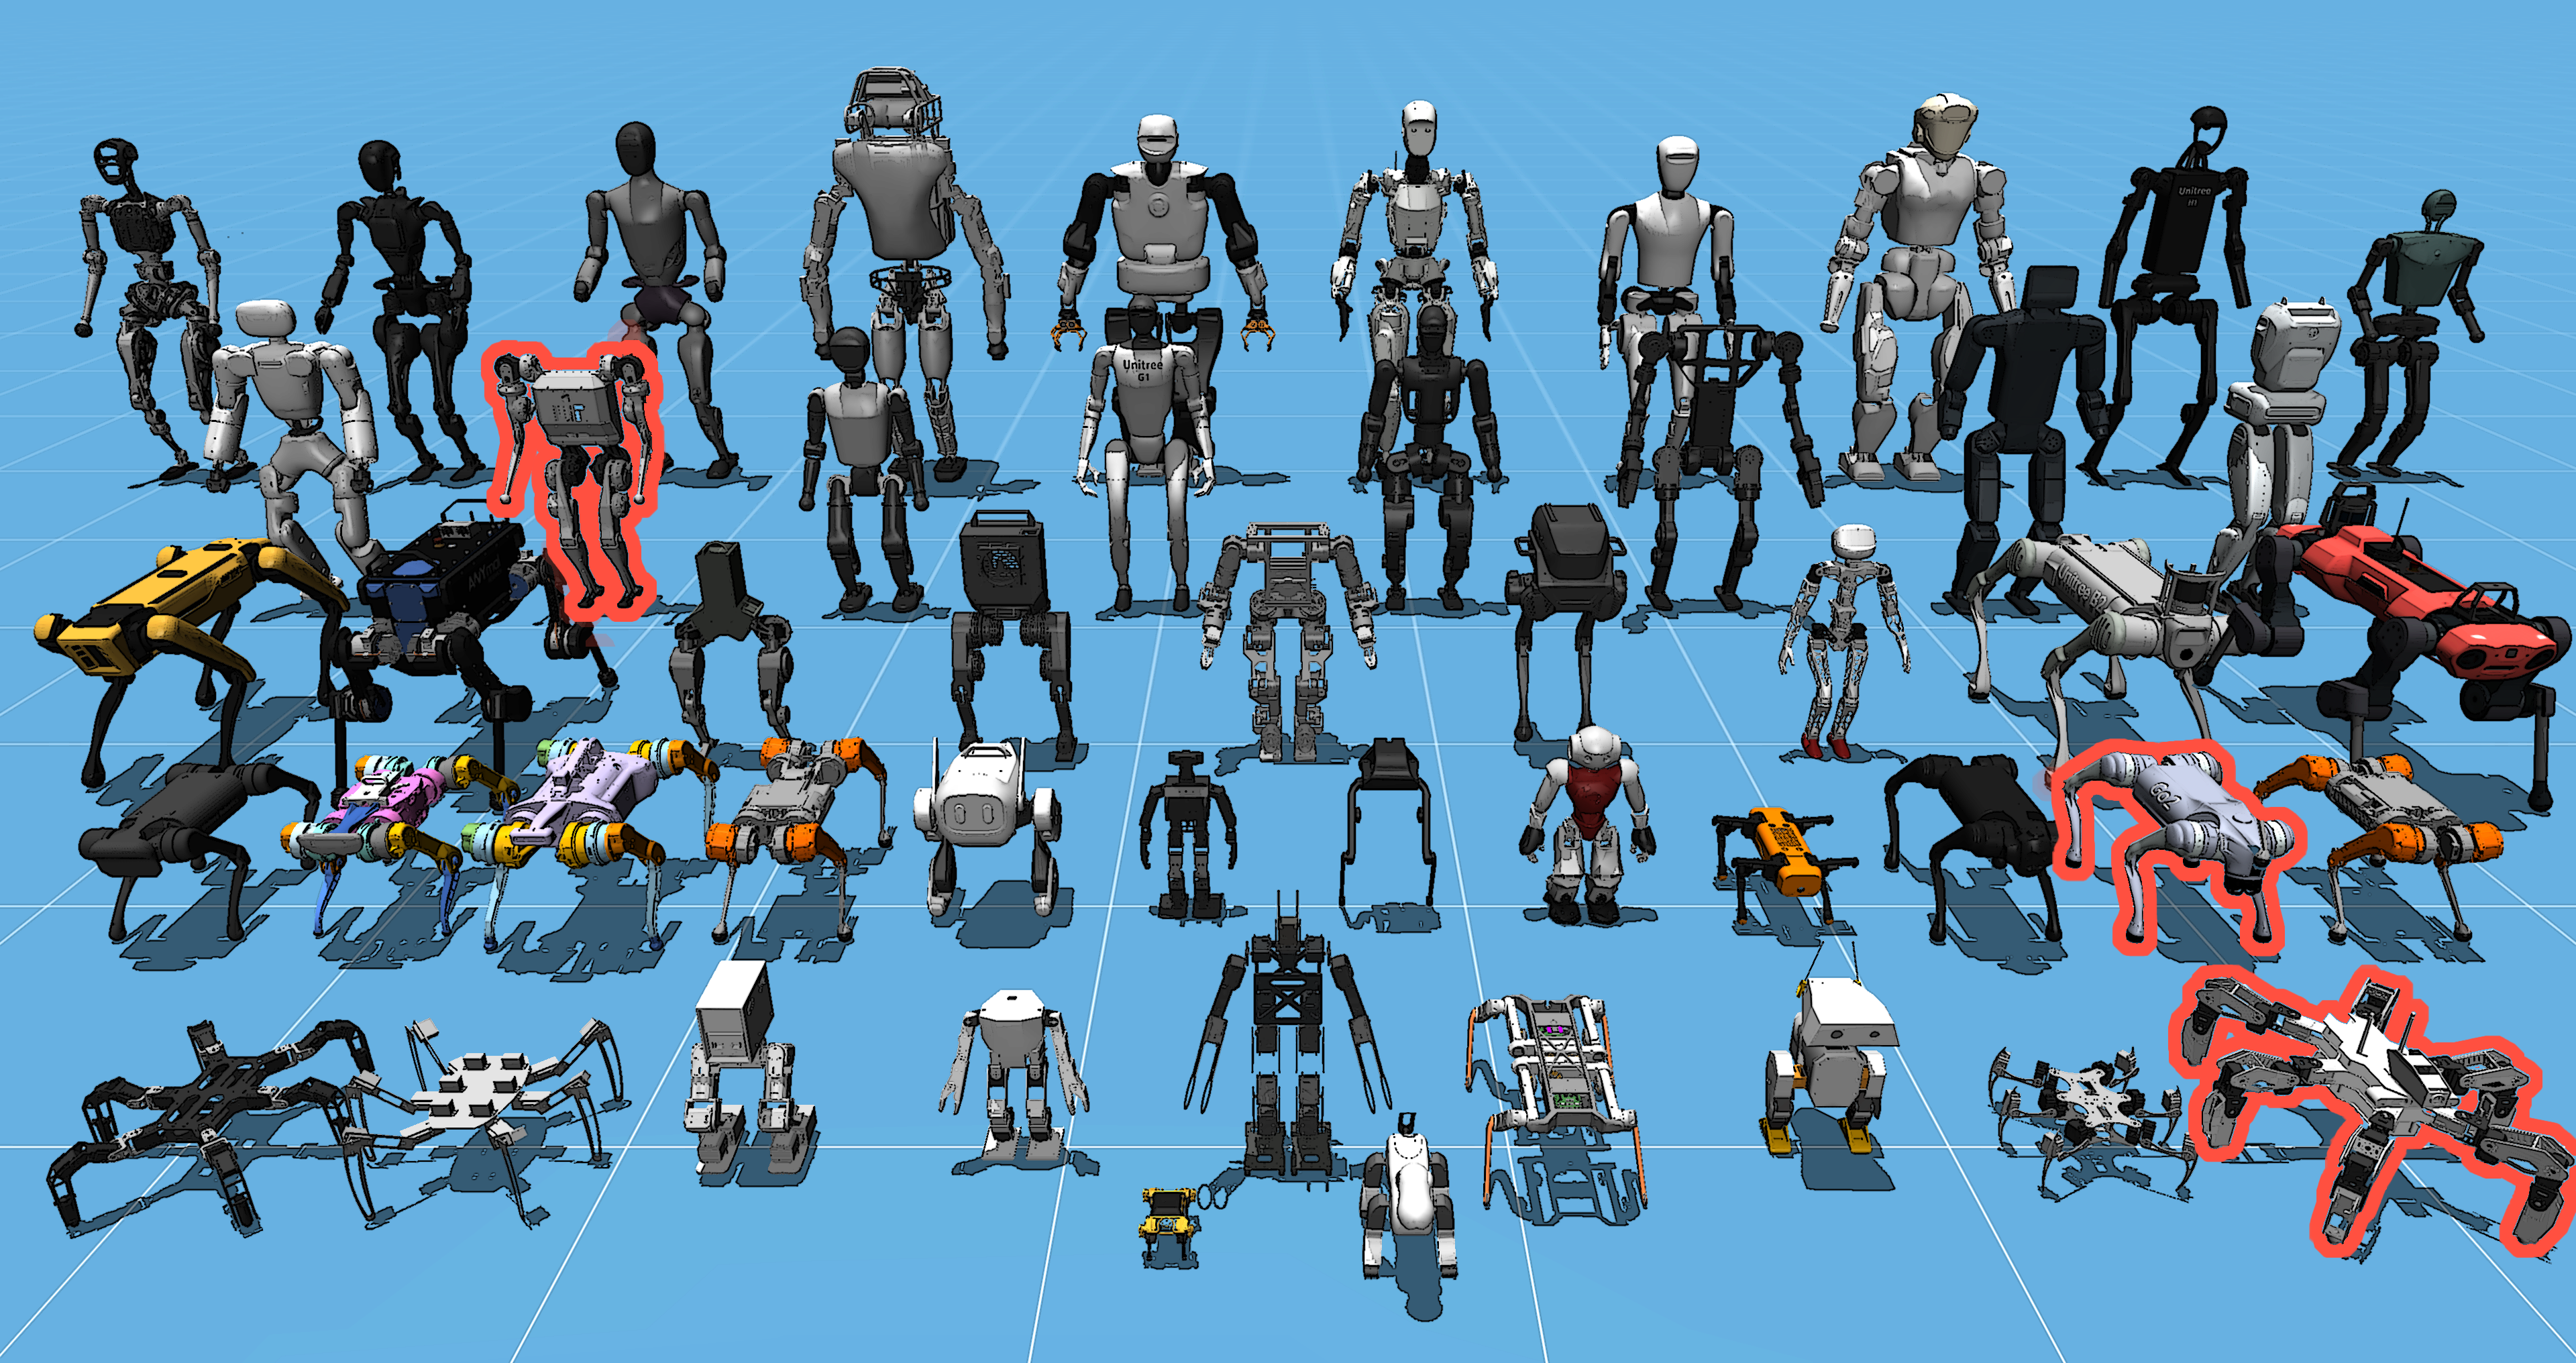
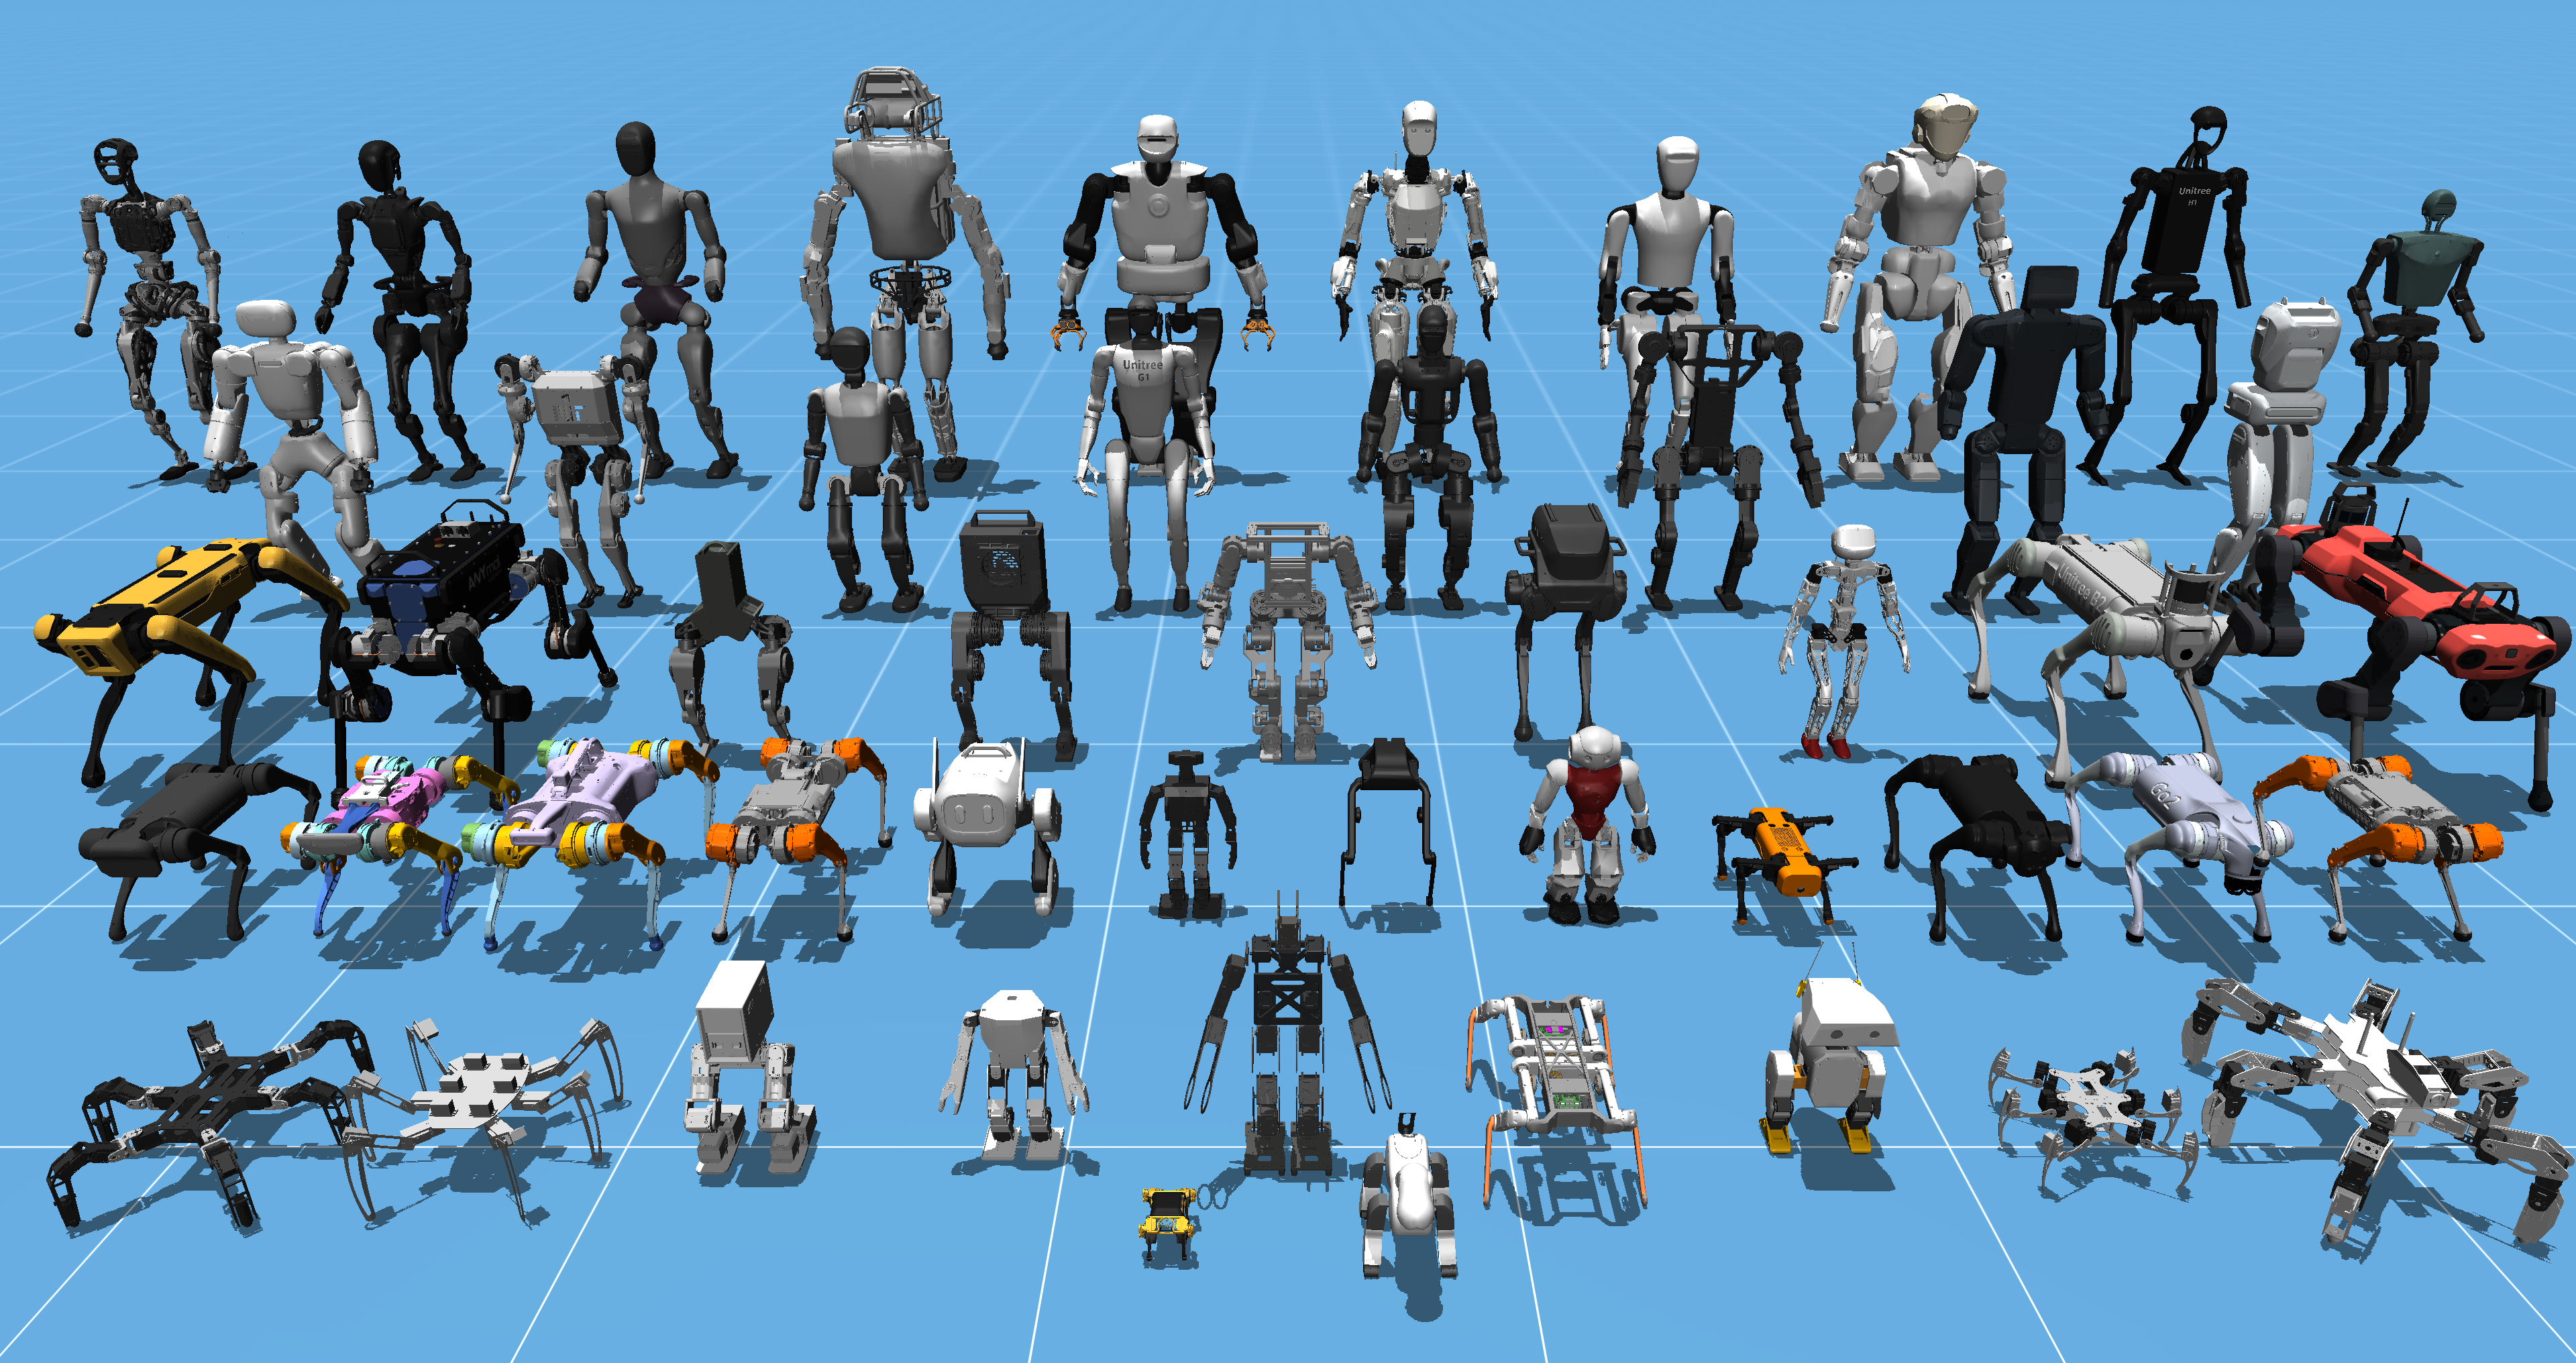
Sync website with revised paper + extend interactive demo
- Title and citation: "Robot Co-Design" -> "Robot Design"
- Refresh all section copy + figures: hero.png, main_robots.png, e1/e2_e4 ranking plots, rl_vs_frozen_combined, design_analysis_counterfactuals
- In-browser MuJoCo demo (mujoco_wasm 3.x): URMA policy port, observation builder, 50 Hz control loop
- Per-design metadata + home_qpos_z so each design starts with feet on the floor
- 7 robots in the demo with seed (0-9) and VGDS iter (0-50) pickers, Reference vs Co-Design mode, follow camera, auto-reset on fall, spacebar toggle
- mujoco_viewer: parse <compiler assetdir>, fixed-timestep accumulator, sensible zoom bounds, lighter-blue active hover
- Mini PI meshes decimated 65 MB -> 11 MB

diff --git a/index.html b/index.html
@@ -3,7 +3,7 @@
     <head>
         <meta charset="UTF-8">
         <meta name="viewport" content="width=device-width, initial-scale=1.0">
-        <meta name="description" content="Shape Your Body: Value Gradients for Multi-Embodiment Robot Co-Design">
+        <meta name="description" content="Shape Your Body: Value Gradients for Multi-Embodiment Robot Design">
         <meta name="keywords" content="robot co-design, multi-embodiment, value gradients, reinforcement learning, locomotion, URMA, morphology optimization">
         <meta name="author" content="Nico Bohlinger, Jan Peters">
         <title>Shape Your Body</title>
@@ -18,6 +18,14 @@
                 }
             }
         </script>
+
+        <script>
+            window.MathJax = {
+                tex: { inlineMath: [['\\(', '\\)'], ['$', '$']] },
+                svg: { fontCache: 'global' }
+            };
+        </script>
+        <script defer src="https://cdn.jsdelivr.net/npm/mathjax@3/es5/tex-svg.js"></script>
     </head>
 
     <body>
@@ -28,7 +36,7 @@
         <div>
             <div id="title-container">
                 <p id="paper-title">
-                    <span class="title-gradient">Shape Your Body:</span><br>Value Gradients for Multi-Embodiment Robot Co-Design
+                    <span class="title-gradient">Shape Your Body:</span><br>Value Gradients for Multi-Embodiment Robot Design
                 </p>
                 <div id="authors">
                     <div class="author-row">
@@ -60,17 +68,15 @@
             </div>
 
             <div id="tldr-container">
-                <p id="tldr-text"><span id="tldr-first">TLDR:</span> We train one multi-embodiment policy and value function across many robots,<br>then use gradients of the frozen value function to co-design new robots — no new RL training per design.</p>
+                <p id="tldr-text"><span id="tldr-first">TLDR:</span> Train one multi-embodiment policy and value function, then design hundreds of new robots with value gradients in just minutes.</p>
             </div>
 
             <div class="section-container">
                 <p class="section-header">Try It Yourself</p>
                 <p class="section-text">
-                    Pick a robot and a design state to inspect what VGDS does to the embodiment.
-                    <span class="highlighted-text">Reference</span> is the nominal URDF design,
-                    <span class="highlighted-text">initial</span> is a random perturbed starting point, and
-                    <span class="highlighted-text">optimized</span> is the design VGDS converged to.
-                    The iteration slider will eventually scrub through the 51 gradient steps of VGDS.
+                    Choose a robot and inspect how <span class="highlighted-text">Value-Gradient Design Search (VGDS)</span> changes its embodiment.
+                    Reference is the nominal URDF, and Co-Design shows the <span class="highlighted-text">optimized design from a perturbed start</span>.
+                    Use the sliders to explore the designs and control the policy live.
                 </p>
                 <div id="syb-demo">
                     <div class="syb-controls">
@@ -139,7 +145,7 @@
                         <div id="syb-status">Loading…</div>
                     </div>
                     <p class="syb-note">
-                        Phase 2 prototype: the URMA policy trained for this robot's design space runs live in the browser. Velocity commands feed the policy; reset returns to the home keyframe.
+                        Live browser demo: an URMA policy runs locally for the selected robot and design. Velocity commands steer the policy.
                     </p>
                 </div>
                 <script type="module" src="demo/demo.js"></script>
@@ -148,85 +154,115 @@
             <div class="section-container">
                 <p class="section-header">Overview</p>
                 <p class="section-text">
-                    <span class="highlighted-text">Can a value function trained across many robots act as a reusable design model?</span>
-                    Classical robot co-design pairs an outer search over embodiments with an inner control loop, requiring a fresh reinforcement learning run for every new robot or design space.
-                    We instead train a single embodiment-aware policy and value function over a wide distribution of robot designs.
-                    Once trained, the value function is frozen and reused as a <span class="highlighted-text">differentiable surrogate</span>: we co-design new robots through <span class="highlighted-text">value gradients</span>, optimizing up to <span class="highlighted-text">1100 continuous embodiment parameters</span> per robot without any new RL training.
+                    <span class="highlighted-text">Can a value function trained across many robots become a reusable design model?</span>
+                    We train one embodiment-aware policy and value function across a broad robot distribution.
+                    After training, the value function is frozen and reused as a <span class="highlighted-text">differentiable surrogate</span>: new robots are optimized by following value gradients inside a soft trust region, over design spaces with <span class="highlighted-text">more than 1100 parameters</span>.
                 </p>
-                <div class="video-placeholder">
-                    <i class="fa fa-video"></i>
-                    <p>Overview video coming soon</p>
-                </div>
+                <img src="images/hero.png" alt="Shape Your Body method overview" class="section-image">
             </div>
 
             <div class="section-container">
                 <p class="section-header">Value-Gradient Design Search</p>
                 <p class="section-text">
-                    During training, each parallel environment samples a new robot design and keeps it fixed for the episode.
-                    A <span class="highlighted-text">URMA</span>-based policy and ensemble critic learn to control and evaluate the full distribution of designs.
-                    We modify the standard URMA critic into a <span class="highlighted-text">direct-design critic</span> that makes value predictions more sensitive to the embodiment parameters, yielding stronger design gradients.
+                    During training, each environment samples a robot design and keeps it fixed for the episode.
+                    A <span class="highlighted-text">Unified Robot Morphology Architecture (URMA)</span>-based policy and direct-design critic learn to control and evaluate the full design distribution with <span class="highlighted-text">PPO</span>.
+                    The critic receives embodiment information more directly than the standard URMA critic, which yields stronger design gradients.
                 </p>
-                <img src="images/method_overview.png" alt="Method overview" class="section-image">
                 <p class="section-text">
-                    After training, the policy and critic are frozen.
-                    <span class="highlighted-text">Value-Gradient Design Search (VGDS)</span> optimizes a normalized design vector by gradient ascent on the average critic prediction over a fixed bank of states, regularized by a soft trust region around a reference design.
-                    Each design step is the gradient of the frozen critic w.r.t. the embodiment parameters, plus the analytic trust-region term — clipped per-parameter and projected back into the valid design space.
-                    The result is a deterministic, batched, gradient-based co-design loop that reuses one trained model across many target robots.
+                    After RL training, VGDS optimizes a normalized design vector \(f\) by <span class="highlighted-text">ascending the frozen critic's prediction</span> over a fixed state bank, <span class="highlighted-text">while staying close to a reference design</span> \(f_{\mathrm{ref}}\):
+                </p>
+                <div class="equation-box">
+                    \[
+                    \hat{J}_{\lambda}(f)
+                    =
+                    \frac{1}{M}\sum_{m=1}^{M}\bar{V}(s_m,\Phi(f))
+                    -
+                    \lambda\frac{\|f-f_{\mathrm{ref}}\|_2^2}{d_\mathrm{design}}
+                    \]
+                </div>
+                <p class="section-text">
+                    Each step follows the value gradient, applies the trust-region penalty, and clips the result back into the valid design space:
+                </p>
+                <div class="equation-box">
+                    \[
+                    f_{n+1}
+                    =
+                    \mathrm{clip}_{[-1,1]}
+                    \left(
+                    f_n + \mathrm{clip}_{[-\delta_{\max},\delta_{\max}]}
+                    \left[\Delta_{\mathrm{Adam}}\left(\nabla_f \hat{J}_{\lambda}(f_n)\right)\right]
+                    \right)
+                    \]
+                </div>
+                <p class="section-text">
+                    This gives a design loop based on one trained model that <span class="highlighted-text">can be batched and reused for many robots</span>.
                 </p>
             </div>
 
             <div class="section-container">
                 <p class="section-header">Multi-Embodiment Training Set</p>
                 <p class="section-text">
-                    Our largest training set spans <span class="highlighted-text">50 robots</span> — 15 quadrupeds, 31 bipeds and humanoids, and 4 hexapods.
-                    A single URMA policy and critic are trained across all of them, with continuous embodiment randomization of masses, inertias, geometry, joint limits, PD gains, and actuator properties.
-                    Design dimensions per robot range from <span class="highlighted-text">190 up to 1177 continuous parameters</span>.
+                    Our largest training set contains <span class="highlighted-text">50 robots</span>: 15 quadrupeds, 31 bipeds and humanoids, and 4 hexapods.
+                    One URMA policy and critic are trained across all of them, with randomization over masses, inertias, geometry, joint limits, PD gains, and actuator properties.
+                    Each robot has <span class="highlighted-text">190 to 1177 continuous design parameters</span>.
                 </p>
                 <img src="images/robot_overview.png" alt="Overview of all 50 robots used in multi-embodiment training" class="section-image">
-                <p class="section-text">
-                    The Unitree Go2 quadruped, MIT Humanoid, and Golem hexapod (highlighted in red) are the main target robots for our co-design experiments and are held out from morphology-class training sets to test cross-embodiment generalization.
-                </p>
             </div>
 
             <div class="section-container">
-                <p class="section-header">Single-Robot Co-Design</p>
+                <p class="section-header">Single-Robot Design</p>
                 <p class="section-text">
-                    In the simplest setting, we train a policy and critic on randomized versions of a single robot and use them to recover better designs from perturbed embodiments.
-                    Across the Go2, MIT Humanoid, and Golem, <span class="highlighted-text">VGDS matches or beats a broad suite of derivative-free baselines</span> — Bayesian Optimization, CMA-ES, PSO, CEM, DE, ARS, TuRBO, and the gradient-based GC-PFO — all sharing the same frozen critic as their objective.
-                    Compared to RL-based co-design baselines that train a new policy per initial design (Schaff2019, FEACRL, Transform2Act, BodyGen, Stackelberg PPO), VGDS reaches on-par or slightly better return while co-designing each additional robot in <span class="highlighted-text">~1–2 minutes</span> after the one-time training run.
+                    First, we train one policy and critic per target robot, then optimize perturbed designs of that same robot.
+                    Across the Unitree Go2 quadruped, MIT Humanoid, and Golem hexapod, <span class="highlighted-text">VGDS matches or outperforms strong surrogate-search baselines</span>, including BO, CMA-ES, PSO, CEM, DE, ARS, TuRBO, and GC-PFO.
                 </p>
-                <div class="video-placeholder">
-                    <i class="fa fa-image"></i>
-                    <p>Result plots coming soon</p>
-                </div>
+                <img src="images/e1_ranking_return.png" alt="Single-robot design: mean return improvement per method" class="section-image">
+                <p class="section-text">
+                    <span class="highlighted-text">Against adapted RL-based co-design baselines</span>, VGDS reaches similar or slightly better final return.
+                    The main difference is cost: RL baselines train a new policy for every initial design, while VGDS trains once.
+                    After one <span class="highlighted-text">7–9 hour</span> training run, each additional design takes only <span class="highlighted-text">1–2 minutes</span> of search.
+                </p>
+                <img src="images/rl_vs_frozen_combined.png" alt="VGDS vs RL-based co-design baselines: return over steps and cumulative design time" class="section-image">
             </div>
 
             <div class="section-container">
-                <p class="section-header">Cross-Embodiment Generalization</p>
+                <p class="section-header">Generalization Across Robots</p>
                 <p class="section-text">
-                    We then train policies and critics on multiple base robots per morphology class — with the target robot held out — and on the full 50-robot training set.
-                    When trained on all 50 robots, <span class="highlighted-text">VGDS finds designs that exceed the nominal URDF</span> for the Go2 and MIT Humanoid.
-                    Generalization is strongest where the training distribution is most diverse, showing that a multi-embodiment critic carries information from the broader robot distribution into co-design of unseen robots.
+                    We then train reusable policies and critics on morphology-class robot sets, with the target robot held out, and on the full 50-robot set.
+                    With all 50 robots, <span class="highlighted-text">VGDS improves beyond the nominal URDF</span> for Unitree Go2 and MIT Humanoid and Golem.
+                    For Golem, the hexapod-only model performs best, likely because the full 50-robot set is dominated by quadrupeds and bipeds.
                 </p>
-                <div class="video-placeholder">
-                    <i class="fa fa-image"></i>
-                    <p>Generalization plots coming soon</p>
-                </div>
+                <img src="images/e2_e4_ranking_return.png" alt="Effect of training set: held-out morphology class vs full 50-robot set" class="section-image">
             </div>
 
             <div class="section-container">
-                <p class="section-header">Analyzing Discovered Designs</p>
+                <p class="section-header">Optimized Designs</p>
                 <p class="section-text">
-                    Beyond optimizing full embodiments, the same value gradients can <span class="highlighted-text">identify performance-limiting design and control parameters</span>.
-                    Grouping the final design update by physical parameter type — actuator torque and velocity limits, body masses and inertias, geometry, PD gains, action scaling — gives a local diagnosis of what the critic would change to improve a given robot.
-                    This turns the multi-embodiment value function into a reusable <span class="highlighted-text">design analysis tool</span> for both new robots and existing platforms.
+                    Starting from perturbed designs, VGDS reshapes the embodiment to improve the frozen policy's return.
+                    Here we show optimized Unitree Go2, MIT Humanoid, and Fourier GR1-T2 designs.
+                    For several tall humanoids, <span class="highlighted-text">VGDS reshapes robots to be smaller, wider, and more compact</span>, which appears to <span class="highlighted-text">improve stability</span>.
                 </p>
+                <img src="images/main_robots.png" alt="Optimized robot designs for Unitree Go2, MIT Humanoid, and Fourier GR1 T2" class="section-image">
+            </div>
+
+            <div class="section-container">
+                <p class="section-header">Design Analysis with Value Gradients</p>
+                <p class="section-text">
+                    The same value gradients also reveal <span class="highlighted-text">which design and control parameters matter</span>.
+                    We group the update f* − f<sub>ref</sub> by body part and parameter type, <span class="highlighted-text">turning the optimized design into a diagnostic tool</span>.
+                </p>
+                <p class="section-text">
+                    For the MIT Humanoid, the strongest changes are nominal joint positions, PD gains, and reduced foot size.
+                    For the Golem, VGDS reduces the action scale, lowers the P gain, and increases the D gain.
+                    For the Unitree Go2, the changes are more physical: rear-leg joint axes, foot geometry, and front hip/calf actuator velocity limits.
+                    The full improvement comes from coupled high-dimensional updates, but the <span class="highlighted-text">grouped analysis points to bottlenecks in the design that an engineer should inspect first</span>.
+                </p>
+                <img src="images/design_analysis_counterfactuals.png" alt="Counterfactual return when copying optimized parameter groups into the initial design" class="section-image">
             </div>
 
             <div class="section-container">
                 <p class="section-header">Acknowledgments</p>
                 <p class="section-text">
-                    This project was funded by National Science Centre, Poland, under the OPUS call in the Weave program UMO-2021/43/I/ST6/02711, and by the German Research Foundation (DFG) under grant number PE 2315/17-1.
+                    This work was funded by the National Science Centre, Poland, under the OPUS Weave grant UMO-2021/43/I/ST6/02711, and by the German Research Foundation (DFG) under grant PE 2315/17-1.
                 </p>
             </div>
 
@@ -234,7 +270,7 @@
                 <p class="section-header">Citation</p>
                 <div class="citation-container">
                     <pre><code>@article{bohlinger2026shape,
-    title={Shape Your Body: Value Gradients for Multi-Embodiment Robot Co-Design},
+    title={Shape Your Body: Value Gradients for Multi-Embodiment Robot Design},
     author={Bohlinger, Nico and Peters, Jan},
     year={2026}
 }</code></pre>
@@ -242,7 +278,7 @@
             </div>
 
             <div id="website-inspiration">
-                <p>This website was inspired by <a href="https://kzakka.com/robopianist/">Kevin Zakka's</a> and <a href="https://brentyi.github.io/tilted/">Brent Yi's</a> and builds on <a href="https://nico-bohlinger.github.io/one_policy_to_run_them_all_website/">Nico Bohlinger's</a>.</p>
+                <p>This website was inspired by <a href="https://kzakka.com/robopianist/">Kevin Zakka</a>, <a href="https://brentyi.github.io/tilted/">Brent Yi</a>, <a href="https://younghyopark.me/tune-to-learn/">Younghyo Park</a>, and builds on <a href="https://nico-bohlinger.github.io/one_policy_to_run_them_all_website/">One Policy to Run Them All</a>.</p>
             </div>
         </div>
     </body>

diff --git a/demo/mujoco_viewer.js b/demo/mujoco_viewer.js
@@ -872,8 +872,11 @@ export class MuJoCoViewer {
     this.controls.target.copy(target);
     this.controls.enableDamping = true;
     this.controls.dampingFactor = 0.1;
-    this.controls.minDistance = extent * 0.2;
-    this.controls.maxDistance = extent * 6;
+    // Bound zoom independently of mjModel.stat.extent: the floor is 100×100m so
+    // extent ≈ 50m and the extent-based heuristic prevents zooming anywhere
+    // near the robot.  Fixed bounds cover small bipeds to tall humanoids.
+    this.controls.minDistance = 0.2;
+    this.controls.maxDistance = 20;
     this.controls.update();
 
     // Lighting
@@ -1311,10 +1314,19 @@ export class MuJoCoViewer {
     }
 
     // ── Normal physics mode ───────────────────────────────
+    // Fixed-timestep accumulator: dt across frames is added to a bank, then we
+    // drain it timestepMs at a time so the simulation stays in lockstep with
+    // wall-clock time even when (dt % timestepMs) != 0.  Without this the
+    // remainder was lost every frame and the sim ran ~10% slower than real.
     const timestepMs = this.mjModel.opt.timestep * 1000;
-    const nsteps = Math.floor(dt / timestepMs);
+    const MAX_STEPS_PER_FRAME = 30;
+    this._physicsAccumulator = Math.min(
+      (this._physicsAccumulator || 0) + dt,
+      timestepMs * MAX_STEPS_PER_FRAME,
+    );
 
-    for (let i = 0; i < Math.min(nsteps, 30); i++) {
+    let stepsThisFrame = 0;
+    while (this._physicsAccumulator >= timestepMs && stepsThisFrame < MAX_STEPS_PER_FRAME) {
       if (this.dragging) {
         this.syncBodies();
         this._updateDragAnchor();
@@ -1328,6 +1340,9 @@ export class MuJoCoViewer {
       this.mujoco.mj_step1(this.mjModel, this.mjData);
       this.onControlStep(this.mjModel, this.mjData);
       this.mujoco.mj_step2(this.mjModel, this.mjData);
+
+      this._physicsAccumulator -= timestepMs;
+      stepsThisFrame++;
     }
 
     this.syncBodies();

diff --git a/custom.css b/custom.css
@@ -416,3 +416,15 @@ p {
         max-width: 100%;
     }
 }
+
+.equation-box {
+    margin: 1.1rem auto;
+    padding: 0.8rem 1rem;
+    max-width: 780px;
+    overflow-x: auto;
+    text-align: center;
+    background: rgba(80, 120, 200, 0.06);
+    border: 1px solid rgba(80, 120, 200, 0.15);
+    border-radius: 12px;
+}
+